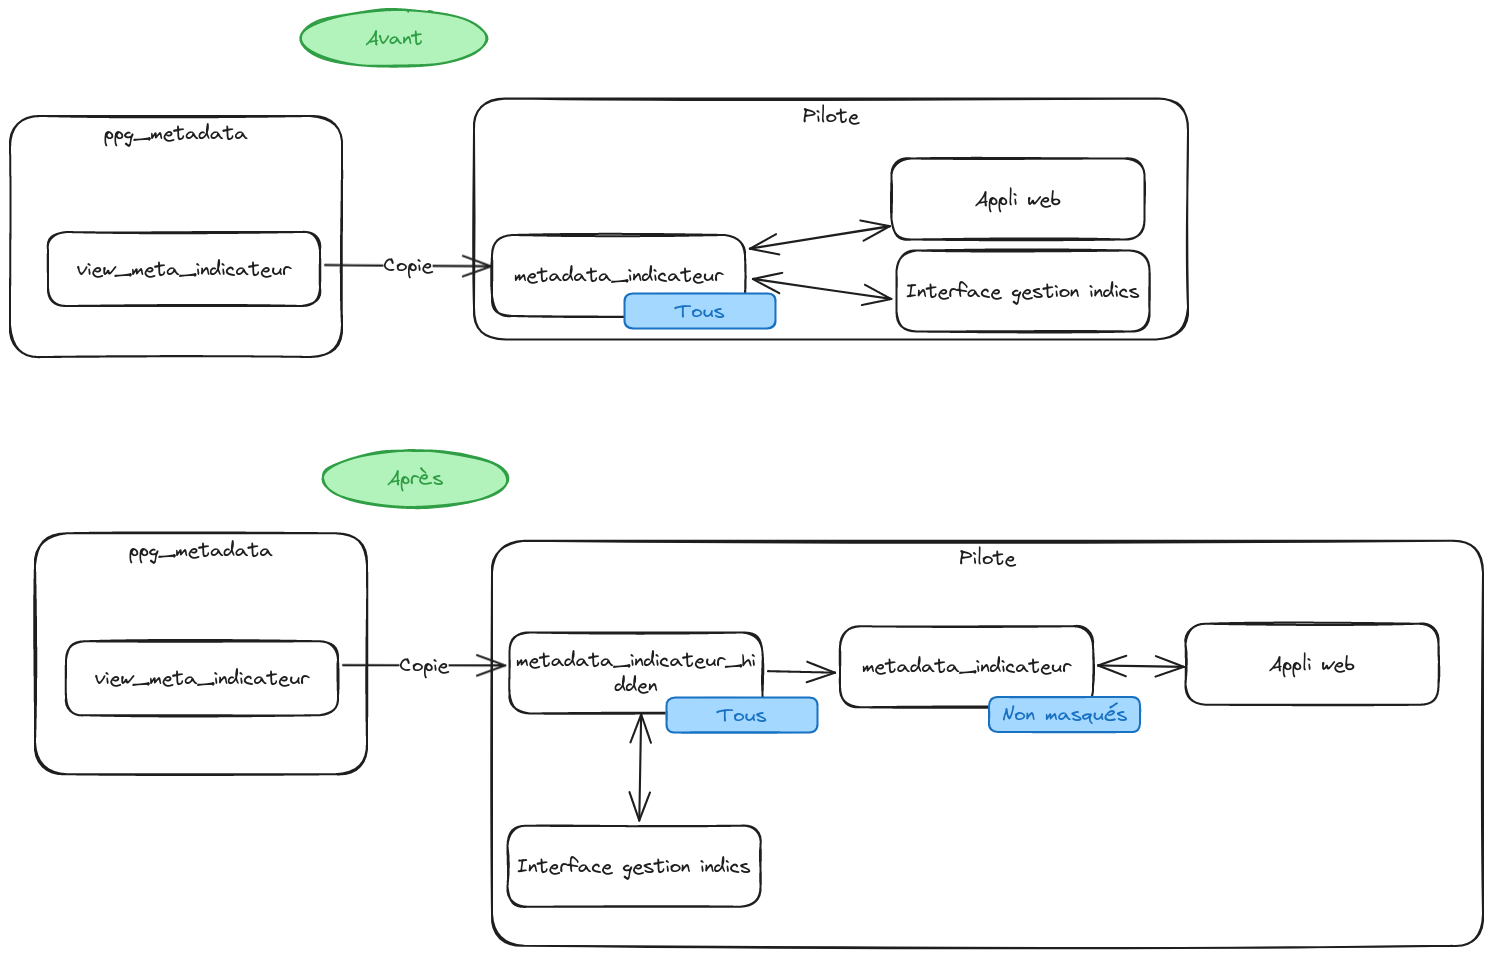
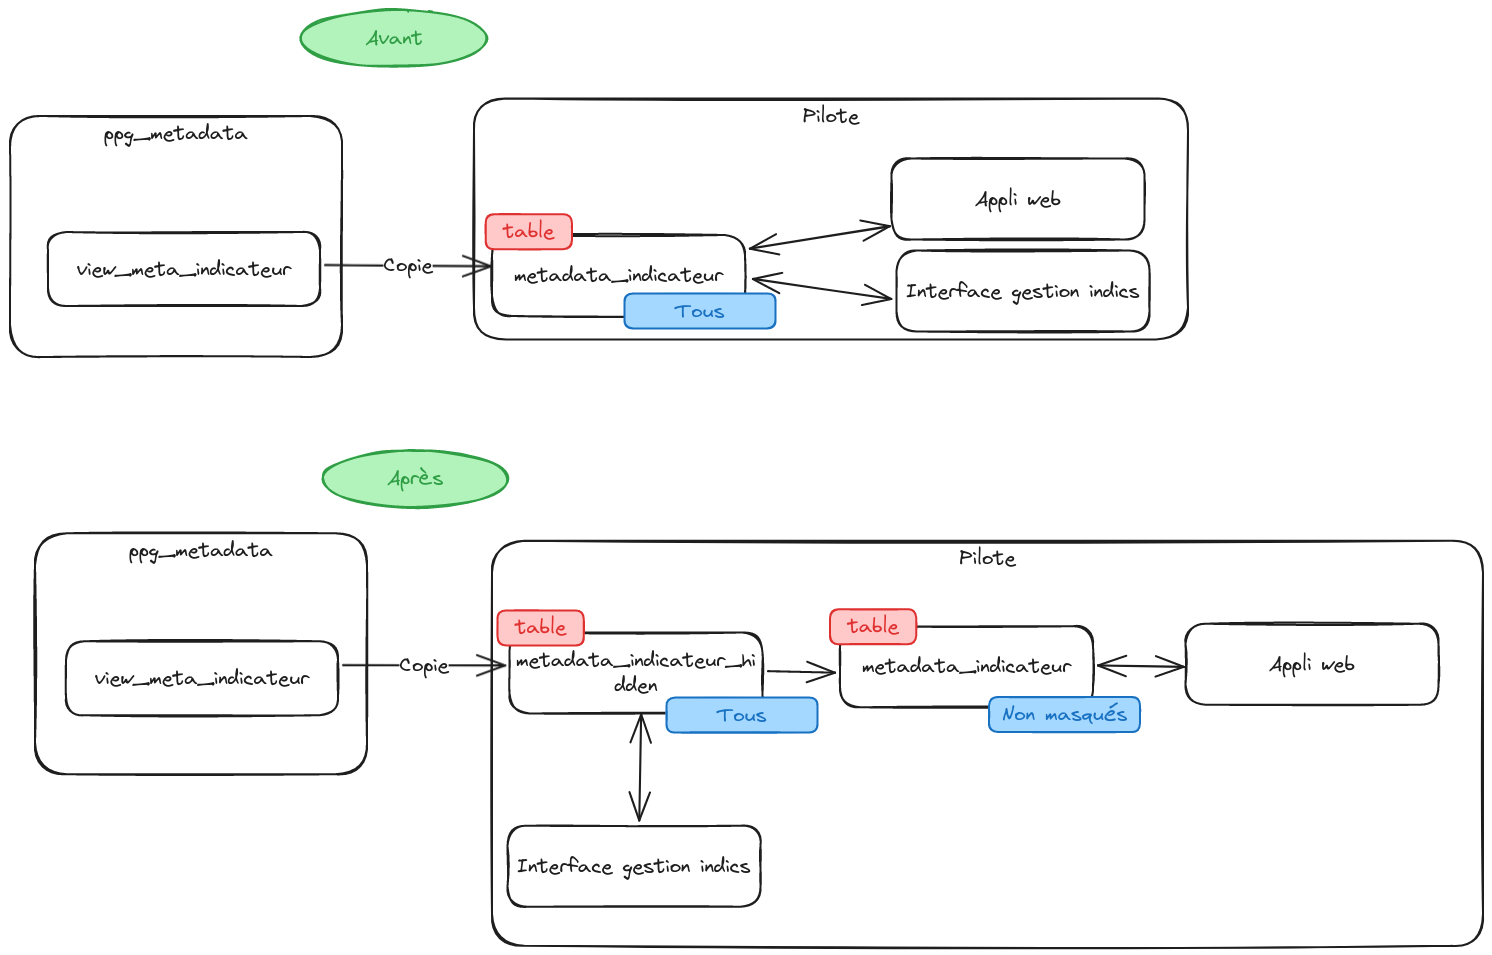
fix: use a table, no view (766)

Changed region(s): [[0.3083, 0.2126, 0.4008, 0.2733], [0.3083, 0.6377, 0.4008, 0.6984], [0.555, 0.6377, 0.6166, 0.6984]]

diff --git a/doc/masquage_indicateurs/README.md b/doc/masquage_indicateurs/README.md
@@ -1,12 +1,10 @@
 # Masquage des indicateurs
 
-Pour masquer les indicateurs, on crée vie *dbt* une table [`metadata_indicateurs_hidden`](../../data_management/data_factory/models/raw/ppg_metadata/metadata_indicateurs_hidden.py) qui contiendra tous les indicateurs, masqués et non masqués.
+Pour masquer les indicateurs, on crée viA *dbt* une table [`metadata_indicateurs_hidden`](../../data_management/data_factory/models/raw/ppg_metadata/metadata_indicateurs_hidden.py) qui contiendra tous les indicateurs, masqués et non masqués.
 
-On crée ensuite une vue [`metadata_indicateurs`](../../data_management/data_factory/models/raw/ppg_metadata/metadata_indicateurs.sql) qui aura la même structure que `metadata_indicateurs_hidden` mais uniquement avec les indicateurs **non masqués**. Tout le reste de l'application est basé sur cette table, sauf l'interface de gestion des utilisateurs qui doit être en mesure de réactiver des indicateurs masqués.
-
+On crée également une seconde [`metadata_indicateurs`](../../data_management/data_factory/models/raw/ppg_metadata/metadata_indicateurs.sql) qui aura la même structure que `metadata_indicateurs_hidden` mais uniquement avec les indicateurs **non masqués**. Tout le reste de l'application est basé sur cette table, sauf l'interface de gestion des utilisateurs qui doit être en mesure de réactiver des indicateurs masqués.
+Comme `metadata_indicateurs` est une table, elle ne sera mise à jour uniquement lors de l'exécution des datajobs. Ainsi, un indicateur désactivé continuera à apparaitre dans l'appli. Ce chois a été fait pour consever le cohérence entre ce que l'on *voit* et le *résultat des calculs* (TA chantier) qui eux ne sont pas calculés en temps réel.
 
 ![](./masquage_indicateurs.png)
 
 Ce grahique décrit la logique avant et après cette implémentation. 
-
-Voir [ce diff](https://github.com/DITP-pilotage/pilote-2/compare/5539acf854e4330ee551eadc4435b34620a0252c...8a778bf342d0cbfa699ffec109619ee4bd91a3ee) pour le détail du code.
